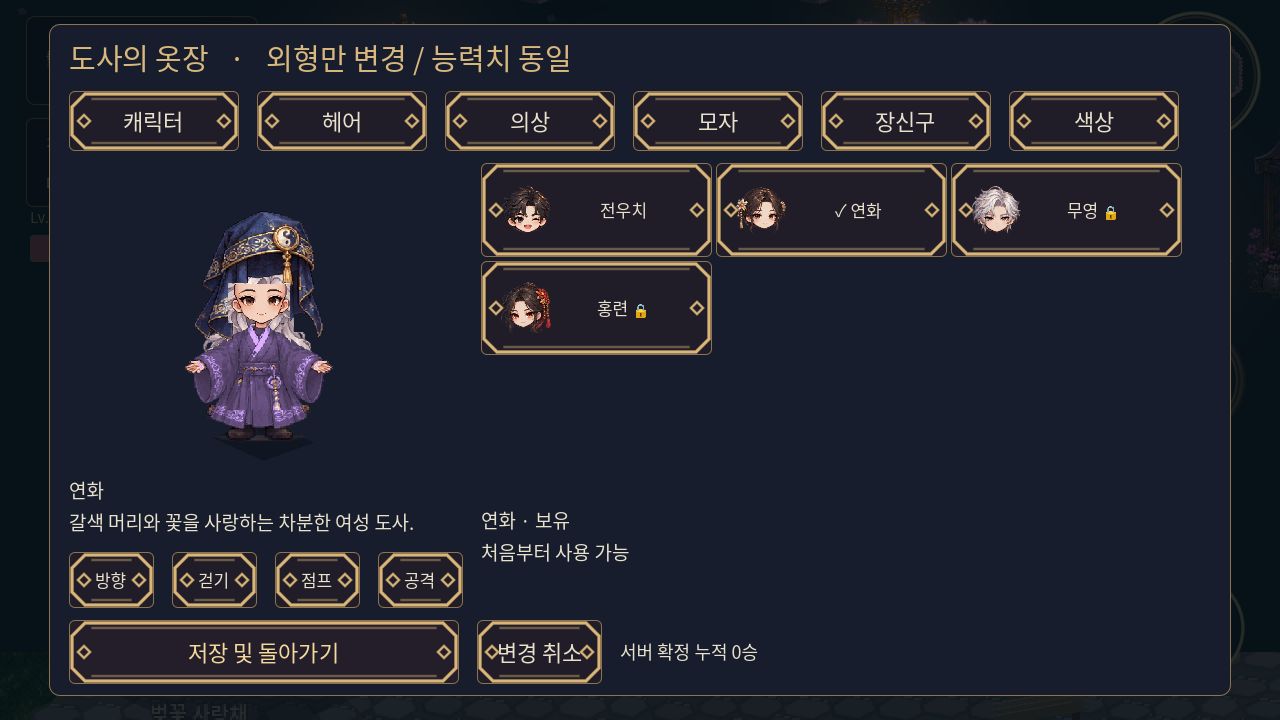
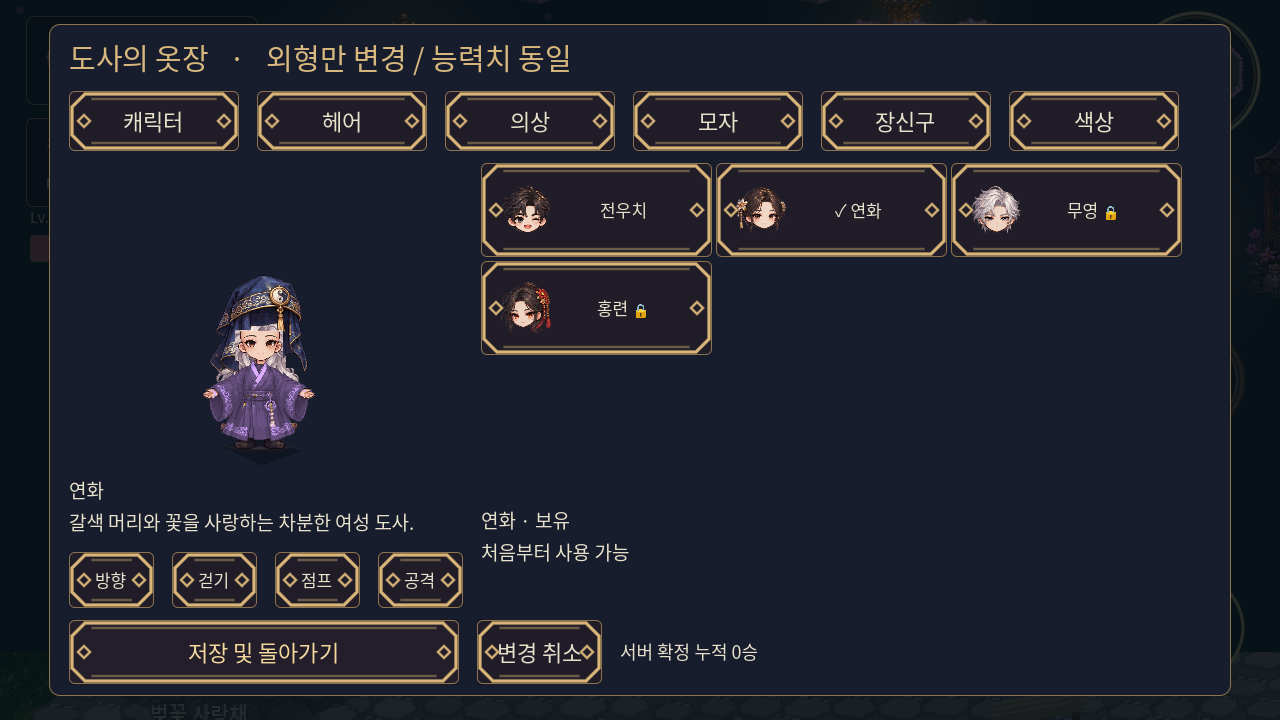
Keep full preview jumps inside wardrobe and cover every character accessory [skip ci]

Changed region(s): [[0.125, 0.275, 0.2812, 0.6417]]

diff --git a/docs/APPEARANCE-2.0.3.md b/docs/APPEARANCE-2.0.3.md
@@ -16,6 +16,8 @@
 
 렌더러는 정지·방향·걷기·점프·착지·공격 상태를 외형 데이터와 분리합니다. 점프할 때 뒷머리·몸체·앞쪽 외형의 높이만 함께 바뀌며 그림자는 지면에 남습니다. 광장, 모험, 수련장, 멀티플레이는 기존 공통 WooActor를 사용합니다. 네트워크 외형 프로토콜과 서버 역할/장착 규칙은 변경하지 않았습니다.
 
+꾸미기 화면은 최고점의 점프까지 미리보기 영역 안에 들어가도록 고정 배율을 맞췄습니다. 모자/동작에 따라 배율이 달라지지는 않습니다. 걷기·점프·공격 버튼을 다시 누르면 정지 미리보기로 돌아갑니다.
+
 장식 에셋은 기존 정면 아트를 재사용합니다. 모든 의상에 새 8방향 수작업 원화를 제작한 것은 아니며, 측면은 기존 방식처럼 좌우 반전과 공통 관절 동작을 사용합니다. 픽셀 단위의 모든 조합을 사람이 미술 검수한 것은 아닙니다.
 
 ## 비교 화면
